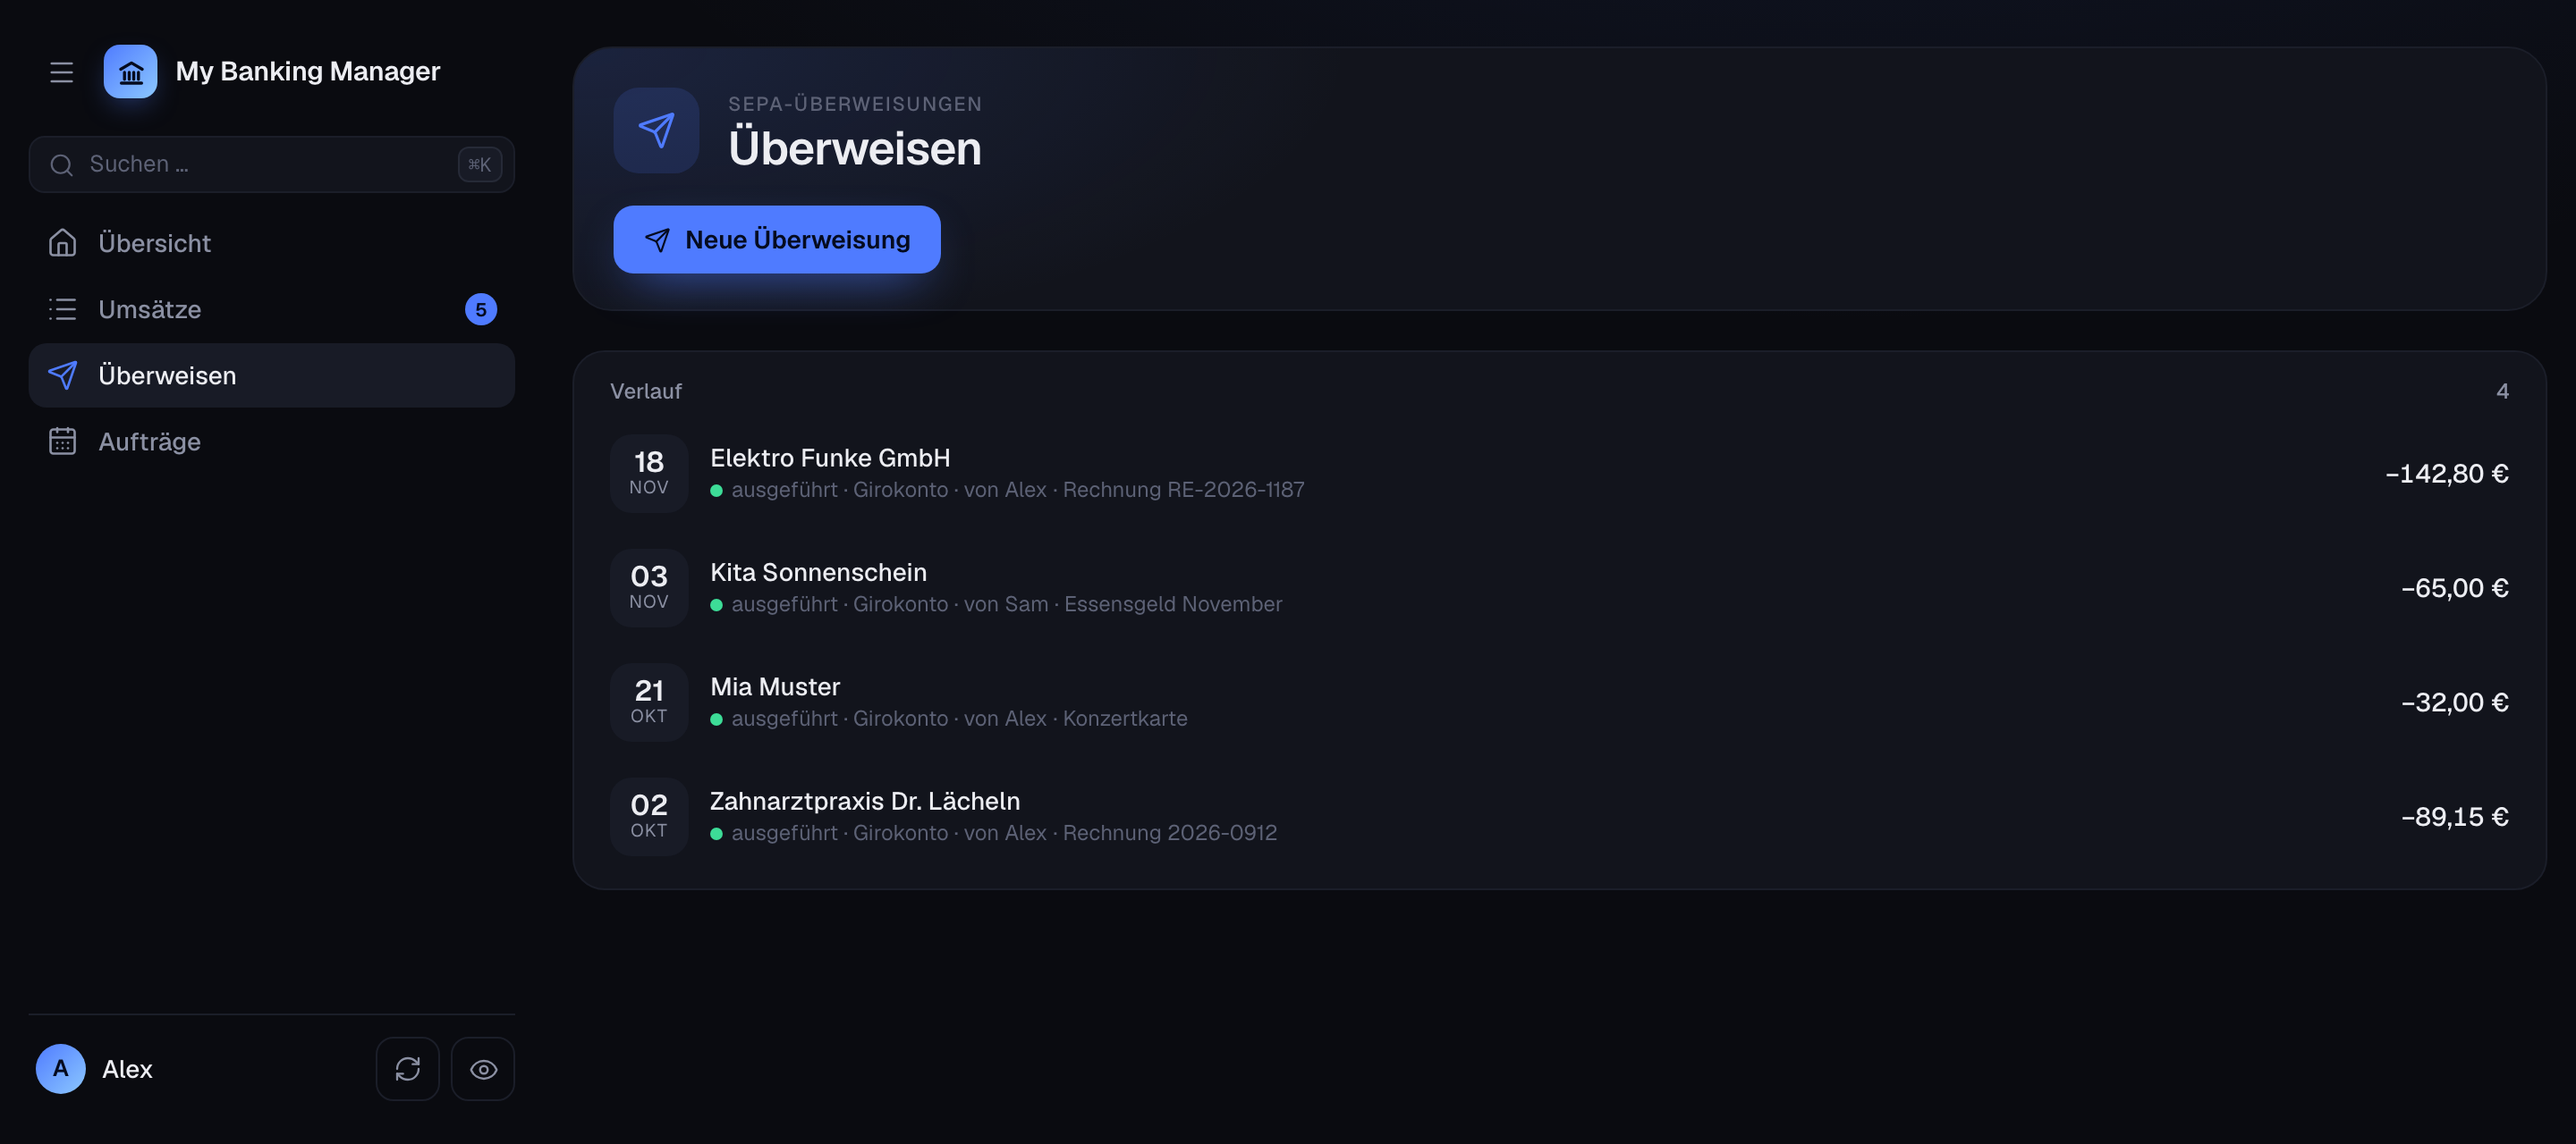
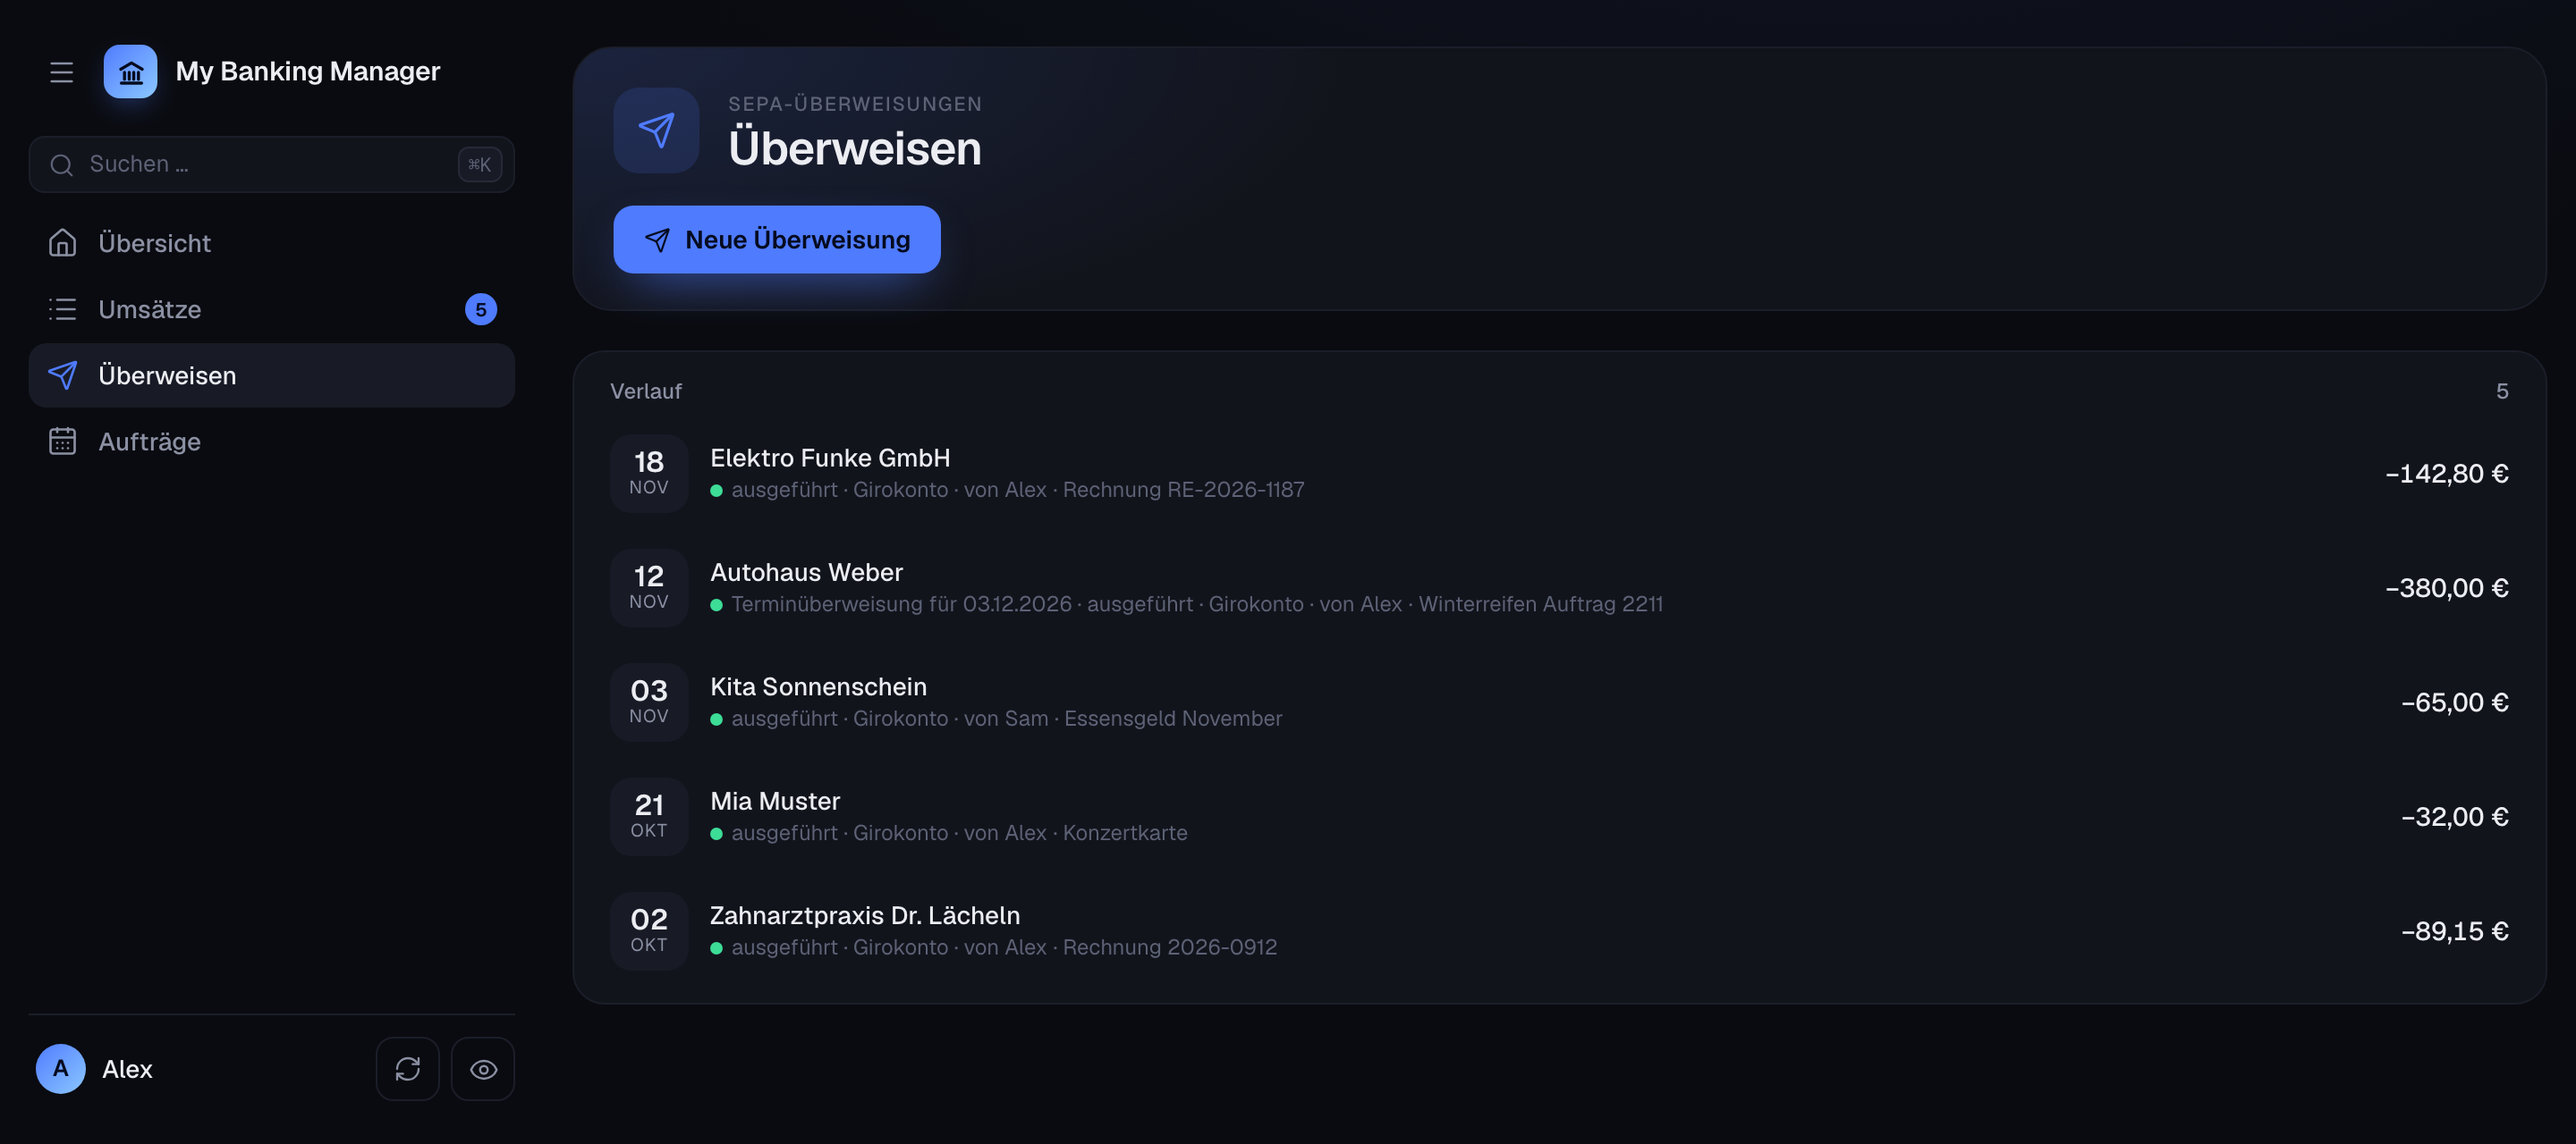
docs(aufträge): Dauer- und Terminaufträge anlegen, ändern und löschen
Seiten „Aufträge“ und „Überweisen“, Übersicht und Entwicklerdoku zum
Schreiben von Aufträgen; neues Bild „auftrag-neu“, die Fixtures kennen
Ausführung, Regeln und Schreibrechte. Die übrigen Bilder sind mit
aufgenommen (Version und Suchleiste waren veraltet).

diff --git a/scripts/screenshots/fixtures.ts b/scripts/screenshots/fixtures.ts
@@ -588,6 +588,7 @@ export const orders: Order[] = [
         remittance: s.remittance,
         payeeAccountId: s.payeeAccountId,
         nextDate: nextStandingOrderDate(s, TODAY),
+        bankOrderId: `DA-${s.id}`,
         canChange: true,
         canDelete: true,
         fetchedAt: FETCHED,
@@ -608,6 +609,7 @@ export const orders: Order[] = [
         remittance: "Winterreifen Auftrag 2211",
         payeeAccountId: null,
         nextDate: "2026-12-03",
+        bankOrderId: "TU-5",
         canChange: true,
         canDelete: true,
         fetchedAt: FETCHED,
@@ -616,7 +618,20 @@ export const orders: Order[] = [
     },
 ];
 
-export const orderAccounts = [GIRO, SAVINGS].map((accountId) => ({ accountId, standingOrders: true, scheduledTransfers: true, needsApproval: false, fetchedAt: FETCHED }));
+const writes = { createScheduled: true, changeScheduled: true, deleteScheduled: true, createStanding: true, changeStanding: true, deleteStanding: true };
+export const orderAccounts = [GIRO, SAVINGS].map((accountId) => ({ accountId, standingOrders: true, scheduledTransfers: true, needsApproval: false, fetchedAt: FETCHED, ...writes }));
+
+/** What a Sparkasse allows for orders: lead times, monthly rhythms only, every part but the unit changeable. */
+const MONTH_DAYS = [...Array.from({ length: 30 }, (_, i) => i + 1), 99];
+const ORDER_RULES = {
+    scheduled: { minDays: 1, maxDays: 360 },
+    scheduledChange: { minDays: 1, maxDays: 360 },
+    standing: { minDays: 0, maxDays: 9999, months: [1, 2, 3, 6, 12], monthDays: MONTH_DAYS, weeks: [], weekDays: [] },
+    standingChange: {
+        minDays: 0, maxDays: 9999, months: [1, 2, 3, 6, 12], monthDays: MONTH_DAYS, weeks: [], weekDays: [],
+        changeable: { payeeAccount: true, payeeName: true, amount: true, remittance: true, firstDate: true, unit: false, every: true, executionDay: true, lastDate: true },
+    },
+};
 
 function runsOf(from: string, to: string) {
     const out: { date: string; order: Order }[] = [];
@@ -663,8 +678,8 @@ export function ordersInScope(scope: string) {
 // ---------- Transfers ----------
 
 export const transferAccounts = [
-    { id: GIRO, name: "Girokonto", iban: "DE02120300000000202051", connectionName: "Sparkasse", instant: true, payeeVerification: true, pinRequired: false },
-    { id: SAVINGS, name: "Tagesgeld", iban: "DE89370400440532013000", connectionName: "Sparkasse", instant: false, payeeVerification: true, pinRequired: false },
+    { id: GIRO, name: "Girokonto", iban: "DE02120300000000202051", connectionName: "Sparkasse", instant: true, payeeVerification: true, pinRequired: false, transfer: true, scheduled: true, standing: true, orderRules: ORDER_RULES },
+    { id: SAVINGS, name: "Tagesgeld", iban: "DE89370400440532013000", connectionName: "Sparkasse", instant: false, payeeVerification: true, pinRequired: false, transfer: true, scheduled: true, standing: true, orderRules: ORDER_RULES },
 ];
 
 const transfer1 = (id: number, date: string, payeeName: string, payeeIban: string, amount: number, remittance: string, extra: object = {}) => ({
@@ -679,6 +694,13 @@ const transfer1 = (id: number, date: string, payeeName: string, payeeIban: strin
     remittance,
     endToEndId: `MBM${date.replace(/-/g, "")}${id}`,
     instant: false,
+    execution: "now" as "now" | "date" | "standing",
+    action: "create" as "create" | "change" | "delete",
+    executionDate: null as string | null,
+    recurrence: null as { firstDate: string; unit: "month" | "week"; every: number; executionDay: number; lastDate: string | null } | null,
+    orderId: null as number | null,
+    bankOrderId: null as string | null,
+    previous: null,
     status: "executed" as const,
     vop: { result: "match" as const, payeeName: null, reason: null, explanation: "", structured: false },
     challenge: null,
@@ -693,6 +715,13 @@ const transfer1 = (id: number, date: string, payeeName: string, payeeIban: strin
 
 export const transfers = [
     transfer1(4, "2026-11-18", "Elektro Funke GmbH", "DE08500105175658541611", 14280, "Rechnung RE-2026-1187", { instant: true }),
+    transfer1(5, "2026-11-12", "Autohaus Weber", "DE44500105175407324931", 38000, "Winterreifen Auftrag 2211", {
+        execution: "date",
+        executionDate: "2026-12-03",
+        orderId: 5,
+        bankOrderId: "TU-5",
+        bankMessage: "Auftrag zur Ausführung vorgemerkt.",
+    }),
     transfer1(3, "2026-11-03", "Kita Sonnenschein", "DE13500105179211312312", 6500, "Essensgeld November", { createdBy: "Sam", mine: false }),
     transfer1(2, "2026-10-21", "Mia Muster", "DE44500105179438371294", 3200, "Konzertkarte", { vop: { result: "close_match", payeeName: "Mia Mustermann", reason: null, explanation: "", structured: false } }),
     transfer1(1, "2026-10-02", "Zahnarztpraxis Dr. Lächeln", "DE06500105178386297562", 8915, "Rechnung 2026-0912"),

diff --git a/scripts/screenshots/capture.ts b/scripts/screenshots/capture.ts
@@ -98,8 +98,24 @@ const SHOTS: Shot[] = [
         name: "auftrag-details",
         route: "/orders",
         themes: ["dark"],
+        // The details with their buttons are taller than the list
+        viewport: { width: WIDTH, height: 900 },
         prepare: async (page) => {
             await page.getByText("Hausverwaltung Lindenhof GmbH").first().click();
+        },
+    },
+    {
+        name: "auftrag-neu",
+        route: "/orders",
+        themes: ["dark"],
+        viewport: { width: WIDTH, height: 1180 },
+        prepare: async (page) => {
+            await page.getByRole("button", { name: "Neuer Auftrag" }).click();
+            await page.getByPlaceholder("Name oder Firma").fill("Mia Muster");
+            await page.getByPlaceholder("DE00 0000 0000 0000 0000 00").fill("DE44500105179438371294");
+            await page.getByPlaceholder("0,00").fill("50,00");
+            await page.locator("#tr-purpose").fill("Taschengeld");
+            await page.locator("#tr-name").blur();
         },
     },
     { name: "einstellungen-konten", route: "/settings?tab=accounts", themes: ["dark"] },

diff --git a/docs/guide/auftraege.md b/docs/guide/auftraege.md
@@ -1,8 +1,9 @@
 # Aufträge
 
 Unter **Aufträge** stehen die **Daueraufträge** und **Terminüberweisungen** deiner Bankkonten,
-so wie die Bank sie beim letzten Abruf gemeldet hat. MBM zeigt sie an; anlegen, ändern und löschen
-folgen in einer späteren Version.
+so wie die Bank sie beim letzten Abruf gemeldet hat. Du kannst hier neue Aufträge anlegen und
+bestehende ändern oder löschen. Die Bank bleibt dabei die Quelle: MBM schickt jede Änderung an die
+Bank und ruft danach ihre Liste neu ab.
 
 ![Dauer- und Terminaufträge mit dem nächsten Termin](../assets/screenshots/auftraege-dark.png)
 
@@ -17,6 +18,64 @@ folgen in einer späteren Version.
 ![Die Details eines Dauerauftrags mit den nächsten Terminen](../assets/screenshots/auftrag-details-dark.png)
 
 *Die nächsten Termine berechnet MBM aus dem Turnus. Fällt einer auf ein Wochenende oder einen Feiertag, rückt er auf den nächsten Bankarbeitstag; die Bank kann im Einzelfall abweichen.*
+
+## Neuer Auftrag
+
+**Neuer Auftrag** öffnet denselben Dialog wie [Überweisen](ueberweisen.md), mit der Ausführung
+**Regelmäßig**. Für eine einmalige Zahlung an einem bestimmten Tag wählst du **Am Datum**.
+
+![Ein neuer Dauerauftrag mit Turnus, Ausführungstag und den nächsten Terminen](../assets/screenshots/auftrag-neu-dark.png)
+
+*Turnus und Ausführungstag bietet MBM nur so an, wie deine Bank sie erlaubt. Darunter stehen die nächsten Termine.*
+
+- **Regelmäßig (Dauerauftrag):** Turnus (monatlich, alle 2 Monate, vierteljährlich, halbjährlich,
+  jährlich; wöchentlich nur, wenn deine Bank es anbietet), Ausführungstag (1. bis 30. oder
+  Monatsende), erste Ausführung und optional die letzte. Ohne letzte Ausführung läuft der Auftrag
+  unbefristet.
+- **Am Datum (Terminüberweisung):** ein Tag in der Zukunft, so weit voraus, wie deine Bank es
+  zulässt (bei vielen Sparkassen bis zu 360 Tage). Fällt er auf ein Wochenende oder einen
+  Feiertag, nennt MBM den Bankarbeitstag, an dem die Bank voraussichtlich ausführt.
+- **Echtzeitüberweisung** gibt es nur bei „Sofort“.
+
+Dann geht es wie bei einer Überweisung weiter: **Prüfen** mit Empfängerüberprüfung, wo deine Bank
+sie verlangt, und **Freigeben** in der Banking-App.
+
+## Ändern
+
+In den Details eines Auftrags öffnet **Ändern** den Dialog mit allen Angaben des Auftrags. Das
+Konto bleibt fest. Ändern kannst du nur, was deine Bank erlaubt; was sie sperrt, steht als Text da
+(bei Sparkassen etwa der Wechsel zwischen monatlich und wöchentlich). Vor dem Senden zeigt MBM
+jedes geänderte Feld mit dem alten und dem neuen Wert.
+
+Die Bank bekommt den vollständigen Auftrag mit den Änderungen. Sie gelten ab der nächsten
+Ausführung.
+
+## Löschen
+
+**Löschen …** zeigt den Auftrag noch einmal und fragt nach. Nach „Bei der Bank löschen“ gibst du
+den Auftrag in der Banking-App frei. Steht die nächste Ausführung kurz bevor, weist MBM darauf
+hin: Die Bank führt sie womöglich noch aus.
+
+!!! info "Wann es nicht geht"
+    „Ändern“ und „Löschen“ fehlen, wenn deine Bank es für das Konto nicht über FinTS anbietet,
+    den Auftrag ausdrücklich sperrt, ihm keine Auftragsnummer gegeben hat, oder wenn du für das
+    Konto keine eigene Bank-Anmeldung hast. Dann geht es nur im Online-Banking.
+
+## Danach
+
+Nach jedem Auftrag ruft MBM die Aufträge des Kontos neu ab, wenn die Bank dafür keine Freigabe
+verlangt, sonst bietet das Ergebnis „Aufträge abrufen“ an. Im Verlauf unter
+[Überweisen](ueberweisen.md) steht jeder Auftrag mit seiner Art, etwa „Änderung des
+Dauerauftrags“.
+
+!!! warning "Ausgang unbekannt"
+    Reißt die Verbindung ab, nachdem der Auftrag an die Bank ging, zeigt MBM **„Ausgang
+    unbekannt“** und sendet nichts noch einmal. Der neue Abruf klärt es meist: Steht der neue
+    Auftrag in der Liste der Bank (oder fehlt der gelöschte), wird daraus „ausgeführt“. Sonst sieh
+    bitte im Online-Banking nach, bevor du ihn noch einmal anlegst.
+
+Hat jemand den Auftrag inzwischen anders geändert, etwa im Online-Banking, sendet MBM nichts und
+bittet dich, die Aufträge neu abzurufen.
 
 ## Vorschau im Saldoverlauf
 

diff --git a/docs/development.md b/docs/development.md
@@ -162,15 +162,22 @@ Abfrage höchstens passen kann.
 
 ## Termin- und Daueraufträge
 
-MBM zeigt Aufträge nur an (Stand M5b Teil 1); anlegen, ändern und löschen folgen nach den
-Überweisungen. Die Bank ist die Quelle: Jeder Abruf ersetzt die Aufträge eines Kontos durch ihre
-Liste, lokal wird nichts bearbeitet.
+Die Bank ist die Quelle: Jeder Abruf ersetzt die Aufträge eines Kontos durch ihre Liste, lokal wird
+nichts bearbeitet. Anlegen, ändern und löschen schickt MBM an die Bank und ruft danach neu ab.
 
 - **Konnektor:**
   - `segments/orders.ts` und `jobs/jobs.ts` lesen Daueraufträge (HKCDB) und Terminüberweisungen
     (HKCSB); die Zahlung selbst steht als pain.001 in der Antwort (`formats/pain001.ts`).
   - Je Konto meldet er, ob die Listen abrufbar sind und ob die Bank dafür jedes Mal eine Freigabe
     verlangt (`standingOrdersTan`, `scheduledTransfersTan`).
+  - Schreiben: HKCSE/HKCSA/HKCSL und HKCDE/HKCDN/HKCDL (`segments/orders.ts`), die Abläufe in
+    `jobs/payments.ts` über denselben `sendPayment` wie die Überweisung (Empfängerüberprüfung, wo
+    HIVPPS den Auftrag nennt). Ändern und Löschen holen im selben Dialog zuerst den Bestand; fehlt
+    der Auftrag dort oder weicht er ab, endet der Vorgang mit `order_changed`, bevor etwas gesendet
+    ist. Eine Löschung schickt pain-Nachricht und Dauerauftragdetails so zurück, wie die Bank sie
+    geliefert hat. Die Regeln der Bank (Vorlaufzeit in Kalendertagen, Turnusse, Ausführungstage,
+    änderbare Felder aus HICSES/HICSAS/HICDES/HICDNS) meldet er je Konto als `orderRules`; geprüft
+    wird mit den Funktionen aus `shared/src/orders.ts`.
 - **Server:**
   - `services/orders.ts` speichert die Listen in `standing_orders` und `scheduled_transfers`. Ein
     Auftrag, den die Bank unter derselben Kennung weiter meldet, behält seine ID.
@@ -179,13 +186,23 @@ Liste, lokal wird nichts bearbeitet.
     Auftragsteil fehl, gilt der Abruf als erfolgreich und trägt `ordersMessage`.
   - `listOrders`, `upcomingOrders` und die Vorschau in `series` (`forecastDays`) rechnen aus den
     gespeicherten Aufträgen. Ein Auftrag an ein eigenes Konto belastet das eine und erhöht das andere.
+  - Schreiben läuft durch den `TransferManager` (siehe Überweisungen): `transfers.execution` =
+    `date` | `standing`, `transfers.action` = `create` | `change` | `delete`, Routen `createTransfer`
+    (mit `execution`), `changeOrder`, `deleteOrder`. Danach startet er einen Abruf „nur Aufträge“
+    für das Konto, wenn die Bank dafür keine Freigabe verlangt. `resolveOrderTransfers` klärt nach
+    dem Abruf „Ausgang unbekannt“ über die End-to-End-ID, die Auftragsnummer oder das Fehlen eines
+    gelöschten Auftrags.
 - **Termine** berechnet `shared/src/orders.ts` für Server und Clients gleich: Turnus in Monaten oder
   Wochen, Ausführungstag (97–99 zählen vom Monatsende), Bankarbeitstage ohne Wochenenden und
   TARGET-Feiertage. Ein Termin rückt auf den nächsten Bankarbeitstag, am Monatsende auf den
   vorherigen.
 - **Web-Client:** Seite `pages/Orders.tsx` mit den Details in `pages/OrderDrawer.tsx`, Karte
-  „Demnächst“ und die gestrichelte Vorschau in `components/BalanceChart.tsx`.
-- Hintergrund: `plans/m5b-umsetzung.md`.
+  „Demnächst“ und die gestrichelte Vorschau in `components/BalanceChart.tsx`. Neue, geänderte und
+  gelöschte Aufträge gehen durch den Dialog aus `pages/Transfer.tsx` (`TransferDialog`, Entwurf mit
+  `change` bzw. `remove`); die Formular-Logik steht in `lib/transfer.ts`.
+- Die simulierte Bank spielt das Schreiben mit `orderWrites` (`testing/personal-bank.ts`), mit
+  Parametern wie bei einer Sparkasse und einem Bestand, den die Aufträge wirklich ändern.
+- Hintergrund: `plans/m5b-umsetzung.md` und `plans/m5b-teil2-schreiben.md`.
 
 ## Überweisungen
 

diff --git a/docs/guide/ueberweisen.md b/docs/guide/ueberweisen.md
@@ -6,7 +6,7 @@ eigene Bank-Anmeldung das erlaubt.
 
 ![Die Seite Überweisen mit dem Verlauf](../assets/screenshots/ueberweisen-dark.png)
 
-*Der Verlauf zeigt die Überweisungen aller Benutzer mit Status, Konto und wer sie gestartet hat.*
+*Der Verlauf zeigt die Überweisungen aller Benutzer mit Status, Konto und wer sie gestartet hat. Auch angelegte, geänderte und gelöschte Aufträge stehen hier, mit ihrer Art.*
 
 ## Eine Überweisung in drei Schritten
 
@@ -18,6 +18,9 @@ eigene Bank-Anmeldung das erlaubt.
    antippen, Betrag und Verwendungszweck. MBM prüft die IBAN sofort und nennt die Bank dazu.
    **Echtzeitüberweisung** schaltest du ein, wenn das Geld in Sekunden ankommen soll und die Bank
    das anbietet.
+   Unter **Ausführung** wählst du **Sofort**, **Am Datum** (Terminüberweisung) oder
+   **Regelmäßig** (Dauerauftrag), soweit deine Bank es für das Konto anbietet; mehr dazu unter
+   [Aufträge](auftraege.md).
 2. **Prüfen:** Die Bank gleicht den Namen des Empfängers mit dem Konto ab
    (**Empfängerüberprüfung**). Passt er, geht es weiter. Weicht er ab, zeigt MBM den Namen, den
    die Bank kennt, und du entscheidest, ob du trotzdem überweist.

diff --git a/docs/index.md b/docs/index.md
@@ -24,8 +24,8 @@ nichts von fremden Servern.
 - **Kategorien und Regeln:** Regeln ordnen neue Umsätze automatisch zu.
 - **CSV-Import in jedes Konto**, mit Vorschau, Erkennung von Doppelten und Rückgängig.
 - **Überweisen** mit Empfängerüberprüfung, Echtzeitüberweisung, Empfängerliste und Verlauf.
-- **Aufträge:** Dauer- und Terminaufträge ansehen, mit den nächsten Terminen und einer Vorschau im
-  Saldoverlauf.
+- **Aufträge:** Dauer- und Terminaufträge ansehen, anlegen, ändern und löschen, mit den nächsten
+  Terminen und einer Vorschau im Saldoverlauf.
 - **Übersicht** aus Karten, die jeder Benutzer selbst zusammenstellt.
 - **Mehrere Benutzer**, jeder mit eigener Anmeldung bei MBM und bei der Bank.
 - **Sicher von Anfang an:** vollständig verschlüsselte Datenbank, Anmeldung mit Passwort und
